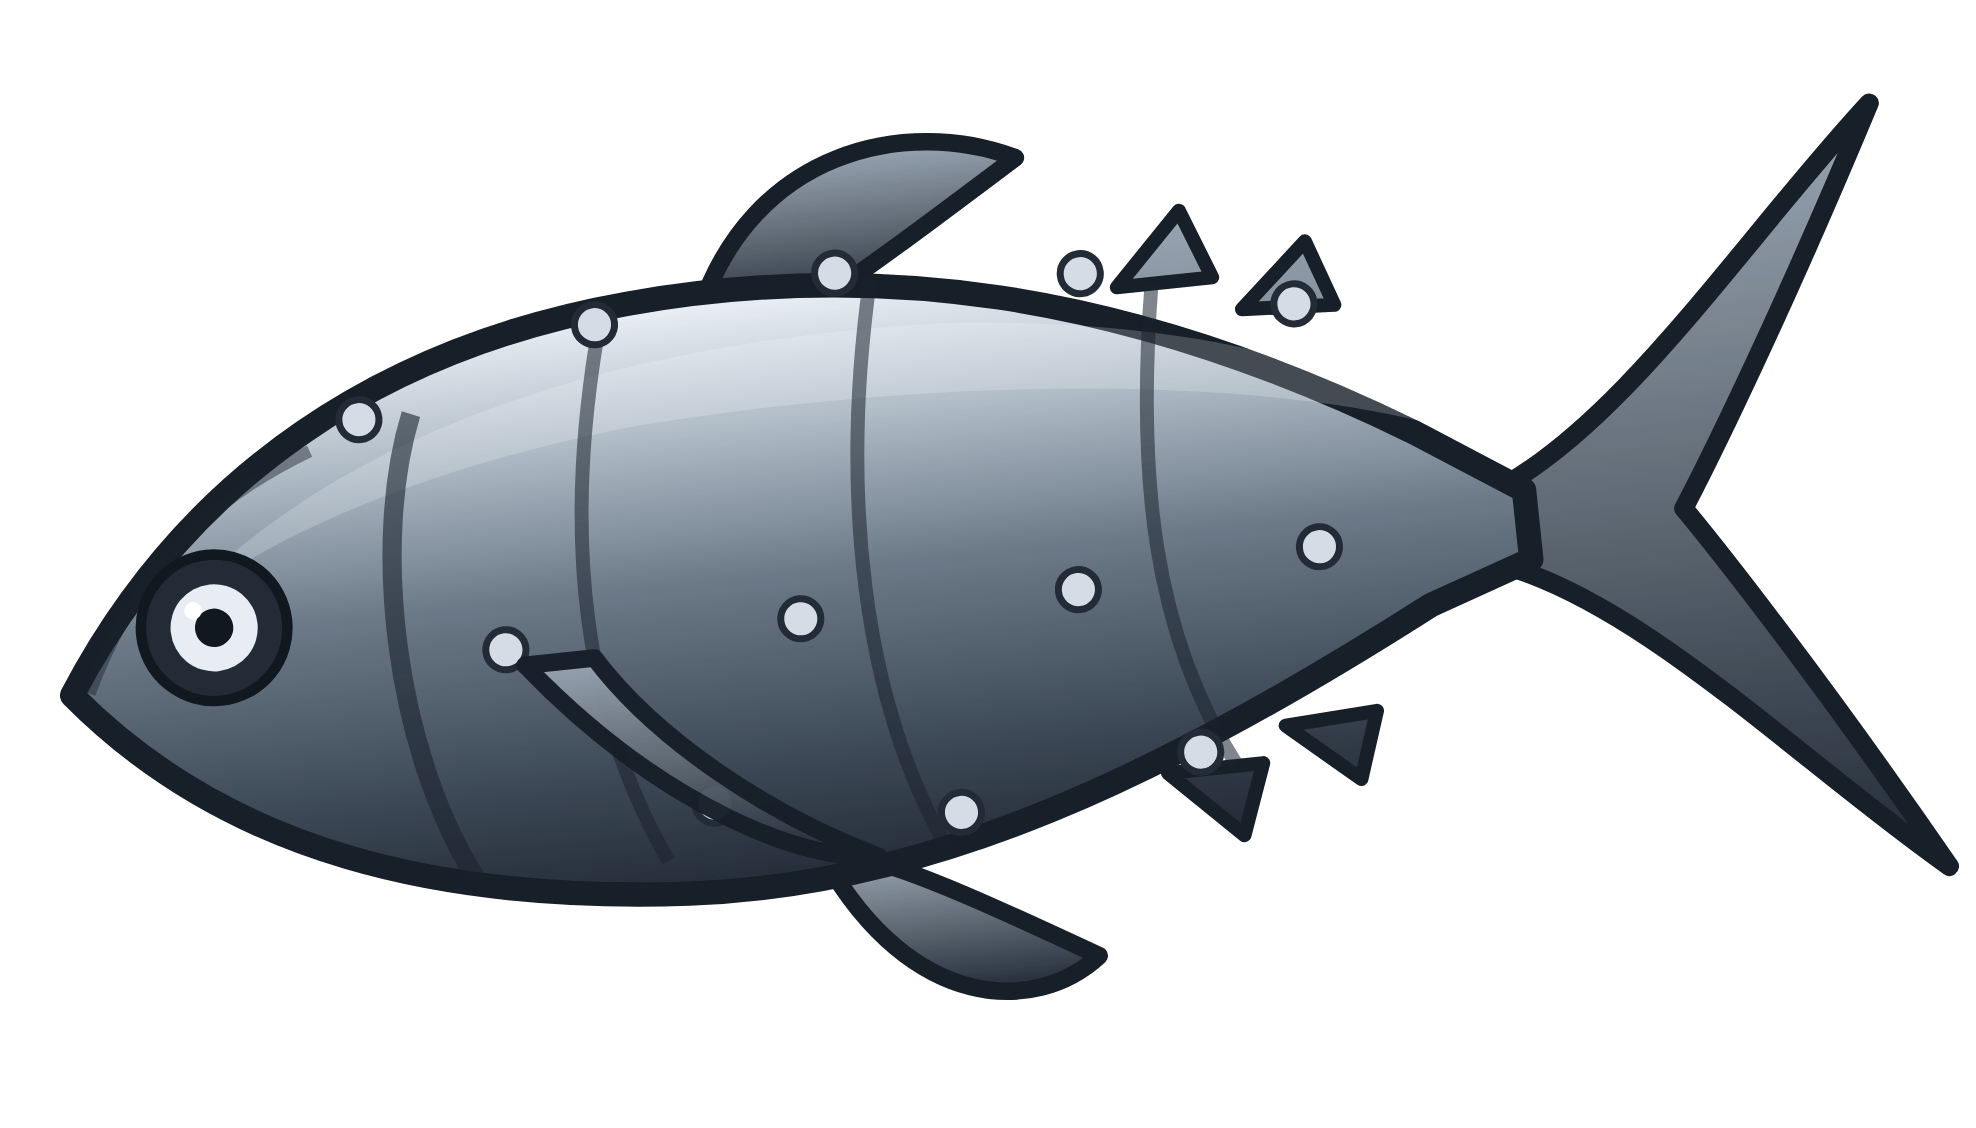
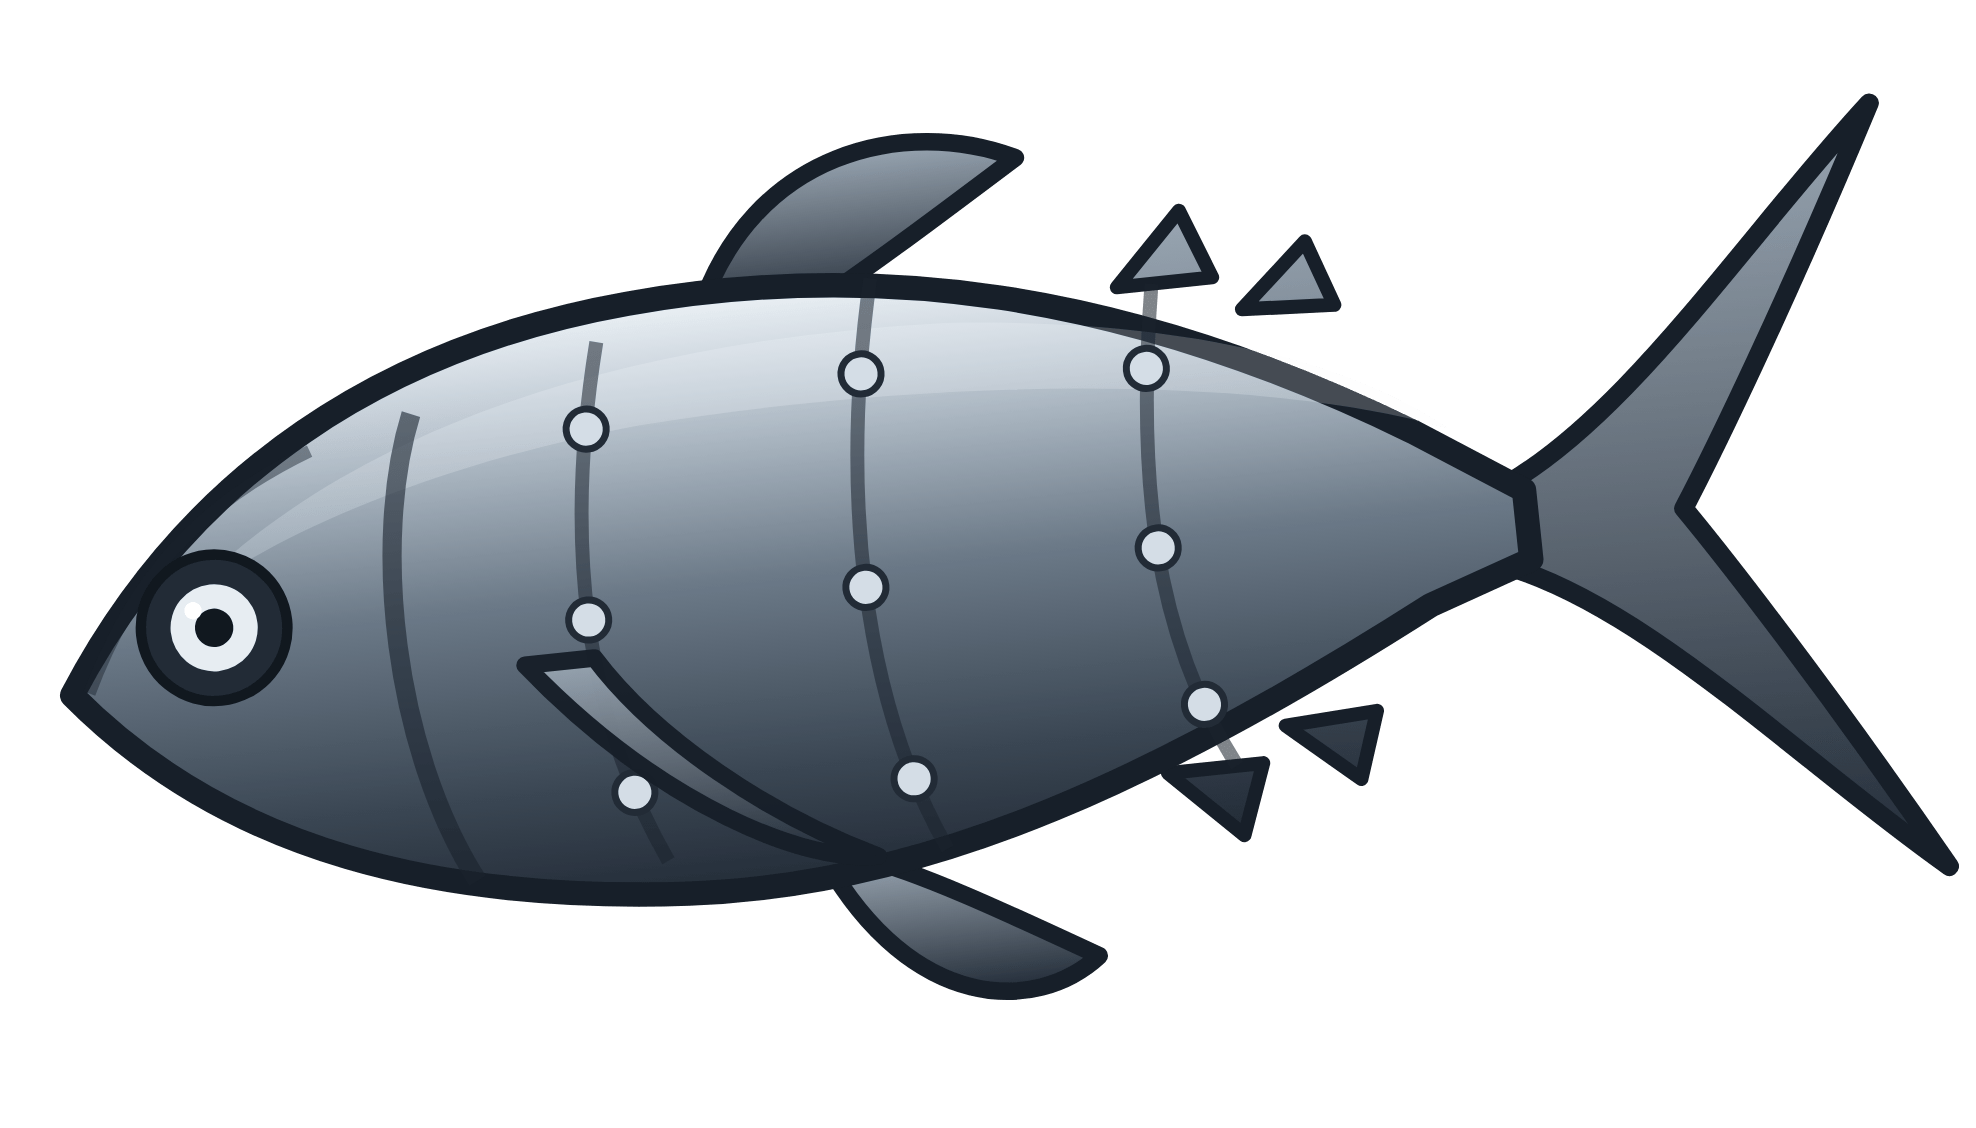
Remove animated bubbles; organize the fish's rivet dots along its seams (#16)
The white dots on the fish body are rivets in the artwork, previously
scattered loosely. Re-render tuna.png with the 9 rivets placed exactly
on the three plate seams, three per seam at matching heights, so they
read as a deliberate riveted-construction grid. Remove the animated
bubbles introduced in #14 (and their reduced-motion CSS rule), and keep
the dormant LogoMark vector's rivet array in sync with the new layout.

Claude-Session: https://claude.ai/code/session_014T9pkH6fueE34cs9RNQr6s

diff --git a/index.html b/index.html
@@ -444,7 +444,7 @@ input:focus, select:focus { border-color: var(--accent); }
 .landing-tagline { margin-top: 24px; font-family: var(--font-display); font-size: 19px; letter-spacing: 0.32em; color: rgba(159, 225, 203, 0.85); text-align: center; animation: taglineReveal 1.4s ease-out 0.6s backwards; z-index: 1; text-shadow: 0 1px 8px rgba(0, 0, 0, 0.8); }
 @keyframes taglineReveal { 0% { opacity: 0; letter-spacing: 0.5em; } 100% { opacity: 1; letter-spacing: 0.32em; } }
 .landing-skip { position: absolute; bottom: 32px; font-size: 12px; color: rgba(164, 173, 186, 0.5); text-transform: uppercase; letter-spacing: 0.2em; animation: taglineReveal 1s ease-out 1.8s backwards; z-index: 1; }
-@media (prefers-reduced-motion: reduce) { .landing-logo { animation: landingFadeIn 0.6s ease-out backwards; } .landing-tagline { animation: taglineReveal 0.6s ease-out backwards; letter-spacing: 0.32em; } .logo-bubbles { display: none; } }
+@media (prefers-reduced-motion: reduce) { .landing-logo { animation: landingFadeIn 0.6s ease-out backwards; } .landing-tagline { animation: taglineReveal 0.6s ease-out backwards; letter-spacing: 0.32em; } }
 @media (max-width: 768px) { .landing-logo-container { width: 100vw; } .landing-tagline { font-size: 15px; letter-spacing: 0.24em; padding: 0 16px; } }
 .strategy-slider-compact { display: inline-flex; align-items: center; gap: 8px; padding: 6px 12px; background: var(--bg-elev); border: 1px solid var(--border-strong); border-radius: var(--radius-sm); font-size: 12px; color: var(--text-secondary); white-space: nowrap; }
 .strategy-slider-compact:hover { border-color: var(--border-accent); }
@@ -5059,7 +5059,7 @@ function LogoMark({
   const wordTy = tagline ? fishH + 0.5 : 0;
   const vbH = tagline ? fishH + 82 : base * 1.12;
   const taglineY = tagline ? fishH + 66 : vbH - base * 0.14;
-  const rivets = [[40, 12], [54, 10.5], [68, 12], [80, 15], [26, 16], [44, 40], [58, 42], [72, 40], [33, 30], [50, 30], [66, 30], [80, 29]];
+  const rivets = [[38.9, 17.9], [37.9, 28.8], [39.5, 38.9], [54.9, 16.4], [53.9, 28.6], [55.5, 39.8], [71.2, 17.8], [70.8, 28.1], [72.5, 37.3]];
   const seams = ['M40 13 C 37 24, 37 34, 41 43', 'M56 11 C 53 23, 53 35, 57 44', 'M72 13 C 70 24, 70 33, 74 41'];
   return React.createElement("svg", {
     className: className,
@@ -5155,31 +5155,7 @@ function LogoMark({
     width: fishW,
     height: fishH,
     preserveAspectRatio: "xMidYMid meet"
-  }), React.createElement("g", {
-    className: "logo-bubbles"
-  }, [[0.055, 0.42, 0.009, '0;0.55;0.55;0;0', '0;0.08;0.72;0.88;1'], [0.090, 0.28, 0.014, '0;0;0.55;0.55;0;0', '0;0.10;0.18;0.74;0.90;1'], [0.135, 0.13, 0.019, '0;0;0.55;0.55;0;0', '0;0.20;0.28;0.76;0.92;1']].map(([dx, dy, br, vals, times], i) => {
-    const bx = fishX + fishW * dx,
-      by = fishY + fishH * dy;
-    return React.createElement("circle", {
-      key: i,
-      cx: bx,
-      cy: by,
-      r: fishW * br,
-      fill: "#cfece4",
-      opacity: "0"
-    }, React.createElement("animate", {
-      attributeName: "cy",
-      values: `${by};${by - fishH * 0.03}`,
-      dur: "4.8s",
-      repeatCount: "indefinite"
-    }), React.createElement("animate", {
-      attributeName: "opacity",
-      values: vals,
-      keyTimes: times,
-      dur: "4.8s",
-      repeatCount: "indefinite"
-    }));
-  })), false && React.createElement("g", {
+  }), false && React.createElement("g", {
     filter: wavy ? 'url(#waterDistort)' : undefined,
     transform: `translate(${2 + ox},${cy - 27}) scale(0.88) rotate(-6 58 30)${_flip ? " translate(122,0) scale(-1,1)" : ""}`
   }, React.createElement("path", {

diff --git a/app.source.html b/app.source.html
@@ -322,7 +322,7 @@ input:focus, select:focus { border-color: var(--accent); }
 .landing-tagline { margin-top: 24px; font-family: var(--font-display); font-size: 19px; letter-spacing: 0.32em; color: rgba(159, 225, 203, 0.85); text-align: center; animation: taglineReveal 1.4s ease-out 0.6s backwards; z-index: 1; text-shadow: 0 1px 8px rgba(0, 0, 0, 0.8); }
 @keyframes taglineReveal { 0% { opacity: 0; letter-spacing: 0.5em; } 100% { opacity: 1; letter-spacing: 0.32em; } }
 .landing-skip { position: absolute; bottom: 32px; font-size: 12px; color: rgba(164, 173, 186, 0.5); text-transform: uppercase; letter-spacing: 0.2em; animation: taglineReveal 1s ease-out 1.8s backwards; z-index: 1; }
-@media (prefers-reduced-motion: reduce) { .landing-logo { animation: landingFadeIn 0.6s ease-out backwards; } .landing-tagline { animation: taglineReveal 0.6s ease-out backwards; letter-spacing: 0.32em; } .logo-bubbles { display: none; } }
+@media (prefers-reduced-motion: reduce) { .landing-logo { animation: landingFadeIn 0.6s ease-out backwards; } .landing-tagline { animation: taglineReveal 0.6s ease-out backwards; letter-spacing: 0.32em; } }
 @media (max-width: 768px) { .landing-logo-container { width: 100vw; } .landing-tagline { font-size: 15px; letter-spacing: 0.24em; padding: 0 16px; } }
 .strategy-slider-compact { display: inline-flex; align-items: center; gap: 8px; padding: 6px 12px; background: var(--bg-elev); border: 1px solid var(--border-strong); border-radius: var(--radius-sm); font-size: 12px; color: var(--text-secondary); white-space: nowrap; }
 .strategy-slider-compact:hover { border-color: var(--border-accent); }
@@ -2699,7 +2699,7 @@ function LogoMark({ height = 34, className = '', tagline = false, wavy = false }
   const wordTy = tagline ? (fishH - 1.5) : 0;
   const vbH = tagline ? (fishH + 70) : (base * 1.12);
   const taglineY = tagline ? (fishH + 56) : (vbH - base * 0.14);
-  const rivets = [[40,12],[54,10.5],[68,12],[80,15],[26,16],[44,40],[58,42],[72,40],[33,30],[50,30],[66,30],[80,29]];
+  const rivets = [[38.9,17.9],[37.9,28.8],[39.5,38.9],[54.9,16.4],[53.9,28.6],[55.5,39.8],[71.2,17.8],[70.8,28.1],[72.5,37.3]]; // 3 per plate seam, aligned rows
   const seams = ['M40 13 C 37 24, 37 34, 41 43', 'M56 11 C 53 23, 53 35, 57 44', 'M72 13 C 70 24, 70 33, 74 41'];
   return (
     <svg className={className} viewBox={`0 0 ${vbW} ${vbH}`} style={{ height, width: 'auto', display: 'block' }} xmlns="http://www.w3.org/2000/svg" role="img" aria-label="Iron Tuna">
@@ -2724,19 +2724,6 @@ function LogoMark({ height = 34, className = '', tagline = false, wavy = false }
         <filter id="itTealHalo" x="-120%" y="-120%" width="340%" height="340%"><feDropShadow dx="0" dy="0" stdDeviation="11" floodColor="#2dd4a3" floodOpacity="0.085" /></filter>
       </defs>
       <image href="/tuna.png" filter={tagline ? 'url(#itTealHalo)' : undefined} x={fishX} y={fishY} width={fishW} height={fishH} preserveAspectRatio="xMidYMid meet" />
-      {/* simple bubbles: a fixed diagonal trail above the fish's head (small over the mouth up to large),
-          popping in mouth-first on one shared cycle with a slight upward drift */}
-      <g className="logo-bubbles">
-        {[[0.055, 0.42, 0.009, '0;0.55;0.55;0;0', '0;0.08;0.72;0.88;1'], [0.090, 0.28, 0.014, '0;0;0.55;0.55;0;0', '0;0.10;0.18;0.74;0.90;1'], [0.135, 0.13, 0.019, '0;0;0.55;0.55;0;0', '0;0.20;0.28;0.76;0.92;1']].map(([dx, dy, br, vals, times], i) => {
-          const bx = fishX + fishW * dx, by = fishY + fishH * dy;
-          return (
-            <circle key={i} cx={bx} cy={by} r={fishW * br} fill="#cfece4" opacity="0">
-              <animate attributeName="cy" values={`${by};${by - fishH * 0.03}`} dur="4.8s" repeatCount="indefinite" />
-              <animate attributeName="opacity" values={vals} keyTimes={times} dur="4.8s" repeatCount="indefinite" />
-            </circle>
-          );
-        })}
-      </g>
       {false && (
       <g filter={wavy ? 'url(#waterDistort)' : undefined} transform={`translate(${2 + ox},${cy - 27}) scale(0.88) rotate(-6 58 30)`}>
         {/* lunate tail */}